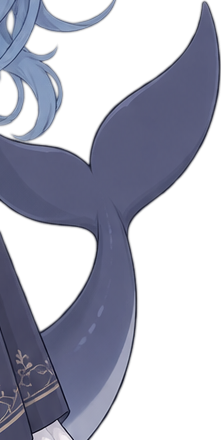
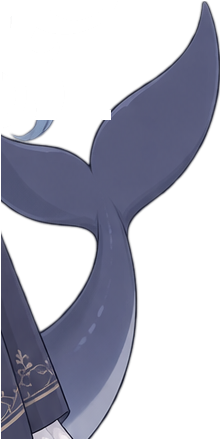
v0.13.2：修摆尾连带裙角——部件冗余遮蔽裁除 + bbox 边框清零
【成因】parts 内混入的裙料/蕾丝/发丝像素静置时被核心图覆盖不可见，旋转时从核心轮廓下滑出随尾同摆——healthy 件白蕾丝角距转轴 160-265px，±4° 位移 3-6 显示像素（用户可见）；neglected 件含裙料条+金绣边+发丝。

【修法】spikes/_qa/trim_part_overlap.py：部件摆到画布位姿后，凡落在"核心 α>0 膨胀 1px"内的像素一律清零——静置时本就是冗余遮蔽，裁除后摆动无物可露；尾-裙交界旋离侧的细缝由核心"无尾重建"边缘天然补位（物理正确形态，显示档不可辨）。healthy 裁 5020px / neglected 裁 6794px，px_rect 沿用 manifest 原值。

【附带】①部件 bbox 边缘 1px 清零——裁切矩形边界残留会渲染成悬浮亮框（neglected 实测可见）；②遮蔽膨胀余量 3px→1px：过大加剧旋离侧凹口，1px 足抗 AA 边；③核心重建流程幂等化验证：split_parts/align_tail_healthy 均可重复跑，manifest 按 id 去重。

【QA】±5° 超实际幅度模拟两分支各 0/+5/-5 六姿态（sway_sim2.png）：无裙角/蕾丝幽灵、无亮框；旧参数对照留档 sway_sim.png。test_v13_rig 28/28 不变。版本号单一源 0.13.2

diff --git a/spikes/_qa/trim_part_overlap.py b/spikes/_qa/trim_part_overlap.py
@@ -1,0 +1,66 @@
+"""部件冗余遮蔽裁除（v0.13.2）—— 修"摆尾连带裙角"。
+
+成因：parts 里混入的裙料/蕾丝/发丝像素在静置时被核心图覆盖不可见，
+旋转时就从核心轮廓下滑出来随尾同摆（healthy 件白蕾丝角距转轴 160-265px，
+±4° 位移 3-6 显示像素，肉眼可辨）。
+
+修法：部件画布位姿上，凡落在"核心 α>0 膨胀 3px"内的像素一律裁除——
+它们静置时本就冗余（核心自带同位内容），裁除后摆动无物可露；尾-裙交界
+处旋转让出的细缝由核心的"无尾重建"边缘天然补位。
+
+重裁后 px_rect 沿用 manifest 原值不变（内容只减不增）。
+"""
+
+from __future__ import annotations
+
+import json
+import os
+
+from PIL import Image, ImageFilter
+
+REPO = os.path.dirname(os.path.dirname(os.path.dirname(os.path.abspath(__file__))))
+STAGE = os.path.join(REPO, "assets", "rig", "final")
+MANIFEST = json.load(open(os.path.join(STAGE, "manifest.json"), encoding="utf-8"))
+
+for part_info in MANIFEST["parts"]:
+    pid = part_info["id"]
+    fig_name = part_info["source_figure"]
+    part_path = os.path.join(STAGE, part_info["file"])
+    core_path = os.path.join(STAGE, MANIFEST["figures"][fig_name])
+
+    part = Image.open(part_path).convert("RGBA")
+    core = Image.open(core_path).convert("RGBA")
+    x0, y0, x1, y1 = [int(v) for v in part_info["px_rect"]]
+    pw, ph = x1 - x0, y1 - y0
+    if part.size != (pw, ph):
+        raise SystemExit(f"{pid} 部件尺寸 {part.size} ≠ px_rect {(pw,ph)}")
+
+    # 核心不透明掩码（全画布）+ 膨胀 1px（抗 AA 边即可；过大加剧旋离侧凹口）
+    core_a = core.getchannel("A").point(lambda v: 255 if v > 8 else 0)
+    covered = core_a.filter(ImageFilter.MaxFilter(3))
+
+    # 部件摆到画布位姿 → 与 covered 相交处清零
+    layer = Image.new("RGBA", core.size, (0, 0, 0, 0))
+    layer.alpha_composite(part, (x0, y0))
+    lp, cp = layer.load(), covered.load()
+    erased = kept = 0
+    for y in range(core.height):
+        for x in range(core.width):
+            if lp[x, y][3] and cp[x, y]:
+                lp[x, y] = (0, 0, 0, 0)
+                erased += 1
+            elif lp[x, y][3]:
+                kept += 1
+    new_part = layer.crop((x0, y0, x1, y1))
+    # bbox 边缘 1px 清零（裁切矩形边界残留会渲染成悬浮亮框）
+    np_ = new_part.load()
+    for x in range(new_part.width):
+        np_[x, 0] = (0, 0, 0, 0)
+        np_[x, new_part.height - 1] = (0, 0, 0, 0)
+    for y in range(new_part.height):
+        np_[0, y] = (0, 0, 0, 0)
+        np_[new_part.width - 1, y] = (0, 0, 0, 0)
+    new_part.save(part_path)
+    print(f"{pid}: 裁除 {erased} 保留 {kept} → {os.path.relpath(part_path, REPO)}")
+
+print("done")

diff --git a/pet/__init__.py b/pet/__init__.py
@@ -1,4 +1,4 @@
 """桌宠核心包。"""
 
 # 版本单一源：app.APP_VERSION 由本值派生（发版只改这里）
-__version__ = "0.13.1"
+__version__ = "0.13.2"

diff --git a/工作表.md b/工作表.md
@@ -116,3 +116,7 @@
 ## v0.13.1 healthy 尾件补绘拆切
 
 - **win端**：gpt-image-2 产线闭环 ✅@win端(`tools/gen_fill.py` probe/fill/patch 三模式,密钥只走 env) / healthy 尾件交付 ✅@win端(edits 掩码移除尾→差分足迹闭运算→区域回贴出派生核心"构造性区域外=原图";edits 无掩码抽尾→删除足迹对位重摆(s=0.3203)→parts+manifest;静置合成 IoU=0.9616) / 关键发现 ✅留痕(**quanzil 中转不遵守掩码保真**——带外仍有 9.4% 像素被重渲染,整图采用=v0.10.19 漂移形态,必须区域回贴) / 几何算法两课留痕(stem 判据须"先宽后薄的长段"防鳍尖误触;闭运算勿与膨胀自相交,先重膨胀再填洞) / QA 全套 `spikes/_qa/`(补绘zoom/抽尾件/对齐脚本/三联对照)
+
+## v0.13.2 摆尾连带裙角修复
+
+- **win端**：部件冗余遮蔽裁除 ✅@win端(`spikes/_qa/trim_part_overlap.py`：部件画布位姿上凡落在"核心α>0膨胀1px"内的像素清零——静置时本被核心覆盖不可见、旋转时滑出成"裙角/蕾丝随尾摆"幽灵;healthy 裁 5020px(白蕾丝角距转轴160-265px 为元凶)/neglected 裁 6794px(裙料条+金绣+发丝)) / bbox 边框 1px 清零 ✅@win端(裁切矩形边缘残留渲染成悬浮亮框) / 参数依据 ✅留痕(遮蔽膨胀余量 3px→1px:过大加剧旋离侧凹口;±5° 超幅模拟两分支六姿态 QA 全净 `sway_sim2.png`,旋离侧细缝为"尾离开露重建裙沿"物理正确形态) / 核心重建流程幂等化 ✅(split_parts/align_tail 可重复跑,manifest 按 id 去重)
